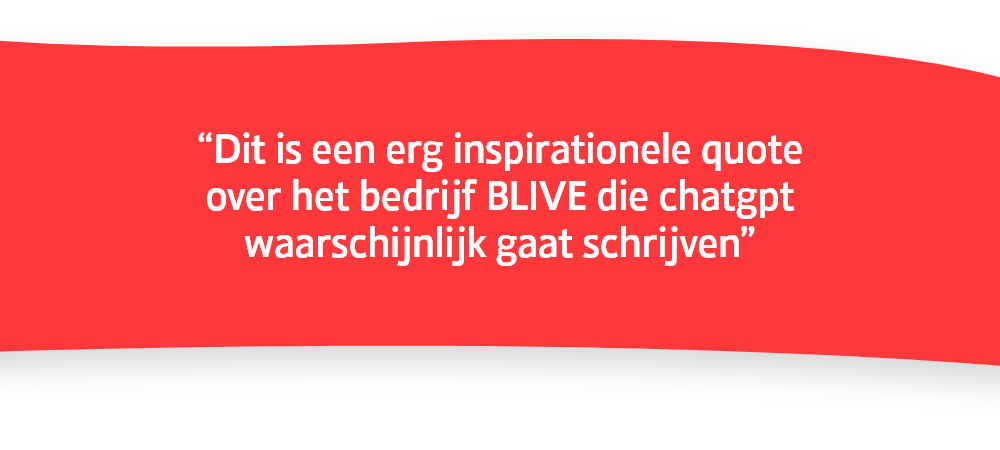
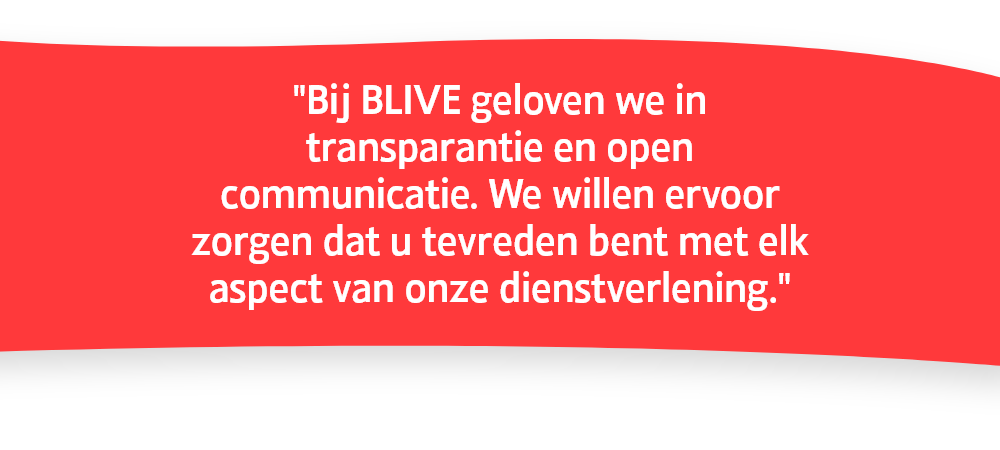
new about us and partners sections :sparkles:

Changed region(s): [[0.186, 0.1867, 0.806, 0.7156]]

diff --git a/index.html b/index.html
@@ -280,10 +280,11 @@
           <h1 id="info__title" class="title" data-aos="fade-up"><span class="title-striped">OVER ONS</span>
           </h1>
           <div class="quote-container-text">
-            <p class="text-red" data-aos="fade-right" data-aos-delay="300">Lorem ipsum dolor sit amet, consectetur adipiscing elit. Quisque id faucibus mauris. Suspendisse iaculis sem at diam bibendum, a convallis justo tempus. Curabitur porta felis sit amet nibh tincidunt, eu consectetur nunc tristique. Proin eu ipsum libero. Donec a ex ac ipsum condimentum volutpat. Duis auctor turpis at eros sollicitudin egestas. Phasellus varius, nibh non consequat pulvinar, orci felis ullamcorper nibh, quis tempor nisi arcu at est. Duis vehicula, dolor a elementum luctus, turpis neque scelerisque justo, id ultricies neque dui id mi. Maecenas at cursus leo, vitae viverra nunc. Morbi ipsum felis, consequat eu gravida vitae, pulvinar non dui. Aliquam placerat accumsan elit, a ultrices justo mollis quis. Ut non iaculis sapien. In hac habitasse platea dictumst.</p>
-            <p class="text-red" data-aos="fade-right" data-aos-delay="300">Aenean porta mattis leo, vel accumsan tortor laoreet eget. Sed aliquam porta lacus, ut bibendum erat. Proin sollicitudin quam non nulla facilisis dictum. Phasellus efficitur accumsan tortor, a finibus dui hendrerit sed. Nulla urna tortor, bibendum non lectus eget, faucibus hendrerit ante. In maximus tellus aliquam, mattis elit id, gravida turpis. Sed pretium egestas felis, ut condimentum justo porttitor quis. Vivamus imperdiet, magna vitae imperdiet efficitur, sem neque congue enim, nec faucibus purus orci et turpis. In ac quam et justo imperdiet maximus. Duis lacinia dui ut nibh vulputate, vitae molestie leo interdum. Phasellus mollis sapien nec mollis gravida. Vivamus gravida ex ut nunc congue pretium.</p>
-            <p class="text-red" data-aos="fade-right" data-aos-delay="300">Morbi nec arcu ut diam tempor ornare eget euismod lectus. Curabitur semper tellus id vulputate rutrum. In quis ante accumsan, dignissim justo eget, porta libero. Pellentesque habitant morbi tristique senectus et netus et malesuada fames ac turpis egestas. Donec finibus faucibus volutpat. Mauris maximus, magna sed pulvinar elementum, nisl lorem semper mauris, vitae cursus risus diam id velit. Nulla facilisi. Aenean sem dolor, semper vitae est nec, vulputate aliquam lectus.</p>
-            <p class="text-red" data-aos="fade-right" data-aos-delay="300">Morbi nec arcu ut diam tempor ornare eget euismod lectus. Curabitur semper tellus id vulputate rutrum. In quis ante accumsan, dignissim justo eget, porta libero. Pellentesque habitant morbi tristique senectus et netus et malesuada fames ac turpis egestas. Donec finibus faucibus volutpat. Mauris maximus, magna sed pulvinar elementum, nisl lorem semper mauris, vitae cursus risus diam id velit. Nulla facilisi. Aenean sem dolor, semper vitae est nec, vulputate aliquam lectus.</p>
+            <p class="text-red" data-aos="fade-right" data-aos-delay="300">BLIVE is uw betrouwbare partner voor professionele opnames en livestreams. Ons bedrijf is volledig gericht op het leveren van de best mogelijke resultaten voor uw projecten. We werken hard om onze klanten tevreden te stellen en gaan daarbij altijd net een stapje verder. Onze passie voor mediaproductie maakt ons enthousiast over elke nieuwe uitdaging die we aangaan.</p>
+            <p class="text-red" data-aos="fade-right" data-aos-delay="300">Onze expertise strekt zich uit van bedrijfsvideo's tot het livestreamen van grote evenementen. We werken nauw samen met onze klanten om hun visie te begrijpen en een product te leveren dat voldoet aan hun eisen. Bij BLIVE geloven we in transparantie en open communicatie. We willen ervoor zorgen dat u tevreden bent met elk aspect van onze dienstverlening, van planning tot uitvoering.</p>
+            <p class="text-red" data-aos="fade-right" data-aos-delay="300">Bij BLIVE streven we naar een langdurige samenwerking met onze klanten. We willen niet alleen uw opdracht uitvoeren, maar ook een vertrouwde partner zijn voor al uw toekomstige mediaprojecten. We zijn er trots op dat we een bedrijf zijn dat zich richt op kwaliteit, betrouwbaarheid en klanttevredenheid.</p>
+            <p class="text-red" data-aos="fade-right" data-aos-delay="300">Maatwerk en persoonlijke service is iets waar BLIVE voor staat. Elk project is uniek en we passen onze dienstverlening aan op de specifieke behoeften van elke klant. Of het nu gaat om een klein bedrijf dat een bedrijfsvideo nodig heeft of een groot evenement dat live moet worden gestreamd, we zorgen ervoor dat u de juiste oplossing krijgt. We nemen de tijd om uw doelen en visie te begrijpen, zodat we een product kunnen leveren dat past bij uw wensen en budget. Bij BLIVE zijn we er om u te helpen slagen, en we zullen er alles aan doen om dat te realiseren.</p>
+            <p class="text-red" data-aos="fade-right" data-aos-delay="300">Als u op zoek bent naar een enthousiast en professioneel mediaproductiebedrijf, dan is BLIVE de juiste keuze. Neem vandaag nog contact met ons op om te ontdekken wat we voor u kunnen betekenen. We kijken ernaar uit om samen met u aan uw projecten te werken en deze tot een succesvol einde te brengen.</p>
             <div class="border-left-reversed border-left-red-reversed"></div>
             <div class="border-right-reversed border-right-red-reversed"></div>
             <div class="border-top-reversed border-top-red-reversed"></div>
@@ -301,9 +302,8 @@
           <h1 id="info__title" class="title" data-aos="fade-up"><span class="title-striped">Partners</span>
           </h1>
           <div class="quote-container-text">
-            <p class="text-red" data-aos="fade-right" data-aos-delay="300">Lorem ipsum dolor sit amet, consectetur adipiscing elit. Quisque id faucibus mauris. Suspendisse iaculis sem at diam bibendum, a convallis justo tempus. Curabitur porta felis sit amet nibh tincidunt, eu consectetur nunc tristique. Proin eu ipsum libero. Donec a ex ac ipsum condimentum volutpat. Duis auctor turpis at eros sollicitudin egestas. Phasellus varius, nibh non consequat pulvinar, orci felis ullamcorper nibh, quis tempor nisi arcu at est. Duis vehicula, dolor a elementum luctus, turpis neque scelerisque justo, id ultricies neque dui id mi. Maecenas at cursus leo, vitae viverra nunc. Morbi ipsum felis, consequat eu gravida vitae, pulvinar non dui. Aliquam placerat accumsan elit, a ultrices justo mollis quis. Ut non iaculis sapien. In hac habitasse platea dictumst.</p>
-            <p class="text-red" data-aos="fade-right" data-aos-delay="300">Aenean porta mattis leo, vel accumsan tortor laoreet eget. Sed aliquam porta lacus, ut bibendum erat. Proin sollicitudin quam non nulla facilisis dictum. Phasellus efficitur accumsan tortor, a finibus dui hendrerit sed. Nulla urna tortor, bibendum non lectus eget, faucibus hendrerit ante. In maximus tellus aliquam, mattis elit id, gravida turpis. Sed pretium egestas felis, ut condimentum justo porttitor quis. Vivamus imperdiet, magna vitae imperdiet efficitur, sem neque congue enim, nec faucibus purus orci et turpis. In ac quam et justo imperdiet maximus. Duis lacinia dui ut nibh vulputate, vitae molestie leo interdum. Phasellus mollis sapien nec mollis gravida. Vivamus gravida ex ut nunc congue pretium.</p>
-            <p class="text-red" data-aos="fade-right" data-aos-delay="300">Aenean porta mattis leo, vel accumsan tortor laoreet eget. Sed aliquam porta lacus, ut bibendum erat. Proin sollicitudin quam non nulla facilisis dictum. Phasellus efficitur accumsan tortor, a finibus dui hendrerit sed. Nulla urna tortor, bibendum non lectus eget, faucibus hendrerit ante. In maximus tellus aliquam, mattis elit id, gravida turpis. Sed pretium egestas felis, ut condimentum justo porttitor quis. Vivamus imperdiet, magna vitae imperdiet efficitur, sem neque congue enim, nec faucibus purus orci et turpis. In ac quam et justo imperdiet maximus. Duis lacinia dui ut nibh vulputate, vitae molestie leo interdum. Phasellus mollis sapien nec mollis gravida. Vivamus gravida ex ut nunc congue pretium.</p>
+            <p class="text-red" data-aos="fade-right" data-aos-delay="300">BLIVE werkt samen met diverse partners, waaronder NSV Navigators, Happietaria Nijmegen, GKV de Ontmoeting, PostMD opleidingen, IederIn en het ziekenhuis Franciscus Vlietland & Gasthuis. Een van de belangrijkste partners van BLIVE is het Franciscus Vlietland & Gasthuis. Dit ziekenhuis is één van de grootste ziekenhuizen in de regio Rotterdam en heeft de afgelopen jaren ingezet op het verbeteren van de kwaliteit van zorg en het verhogen van de patiënttevredenheid. Het inzetten van livestreams en video-opnames is hierbij een belangrijk middel gebleken. BLIVE ondersteunt het ziekenhuis bij het realiseren van professionele opnames en livestreams van diverse evenementen, waaronder medische congressen en rondleidingen.</p>
+            <p class="text-red" data-aos="fade-right" data-aos-delay="300">Als partner kan BLIVE u helpen bij het realiseren van professionele livestreams en video-opnames. Of het nu gaat om een bedrijfsvideo, workshop, seminar of congres, BLIVE kan ervoor zorgen dat uw project op een hoogwaardige manier wordt vastgelegd en/of live wordt gestreamd. Dit kan bijvoorbeeld helpen om uw evenement toegankelijker te maken voor een groter publiek, ook als zij niet fysiek aanwezig kunnen zijn. Daarnaast kan BLIVE u adviseren over de beste manier om uw boodschap over te brengen via video. Met onze expertise in het produceren van hoogwaardige videocontent kunnen wij u helpen om uw boodschap zo krachtig en effectief mogelijk te communiceren. Of u nu een klein bedrijf of een grote organisatie bent, BLIVE kan u helpen om uw project naar een hoger niveau te tillen en uw doelgroep op de best mogelijke manier te bereiken.</p>
             <div class="border-left border-left-red"></div>
             <div class="border-right border-right-red"></div>
             <div class="border-top border-top-red"></div>

diff --git a/css/info.css b/css/info.css
@@ -42,6 +42,7 @@
 
 section p {
     padding-top: 15px;
+    text-align: justify;
 }
 
 .about-us-section {
@@ -63,11 +64,12 @@ section p {
     }
 
     .partners-section {
-        margin: 0 10% 50px 10%;
+        margin: -50px 10% 50px 10%;
     }
 
     .about-us-section {
         margin: 0 10% 0 10%;
+        order: 1;
     }
 
     .partner-logos {
@@ -86,6 +88,8 @@ section p {
         background-repeat: no-repeat;
         background-size: cover;
         background-position: center;
+        order: 2;
+        margin-top: 50px;
     }
 }
 
@@ -110,9 +114,12 @@ section p {
     }
 }
 
-@media screen and (max-width: 400px) {
+@media screen and (max-width: 450px) {
     .about-us-quote {
         background-image: url('../images/backgrounds/background_about_us_mobile_small.png');
+    }
+    .partner-logos {
+        background-image: url('../images/backgrounds/background_partners_mobile_small.png');
     }
 }
 

diff --git a/css/contact.css b/css/contact.css
@@ -12,5 +12,4 @@
 
 .contact {
     padding: .75rem;
-    height: 650px;
 }
